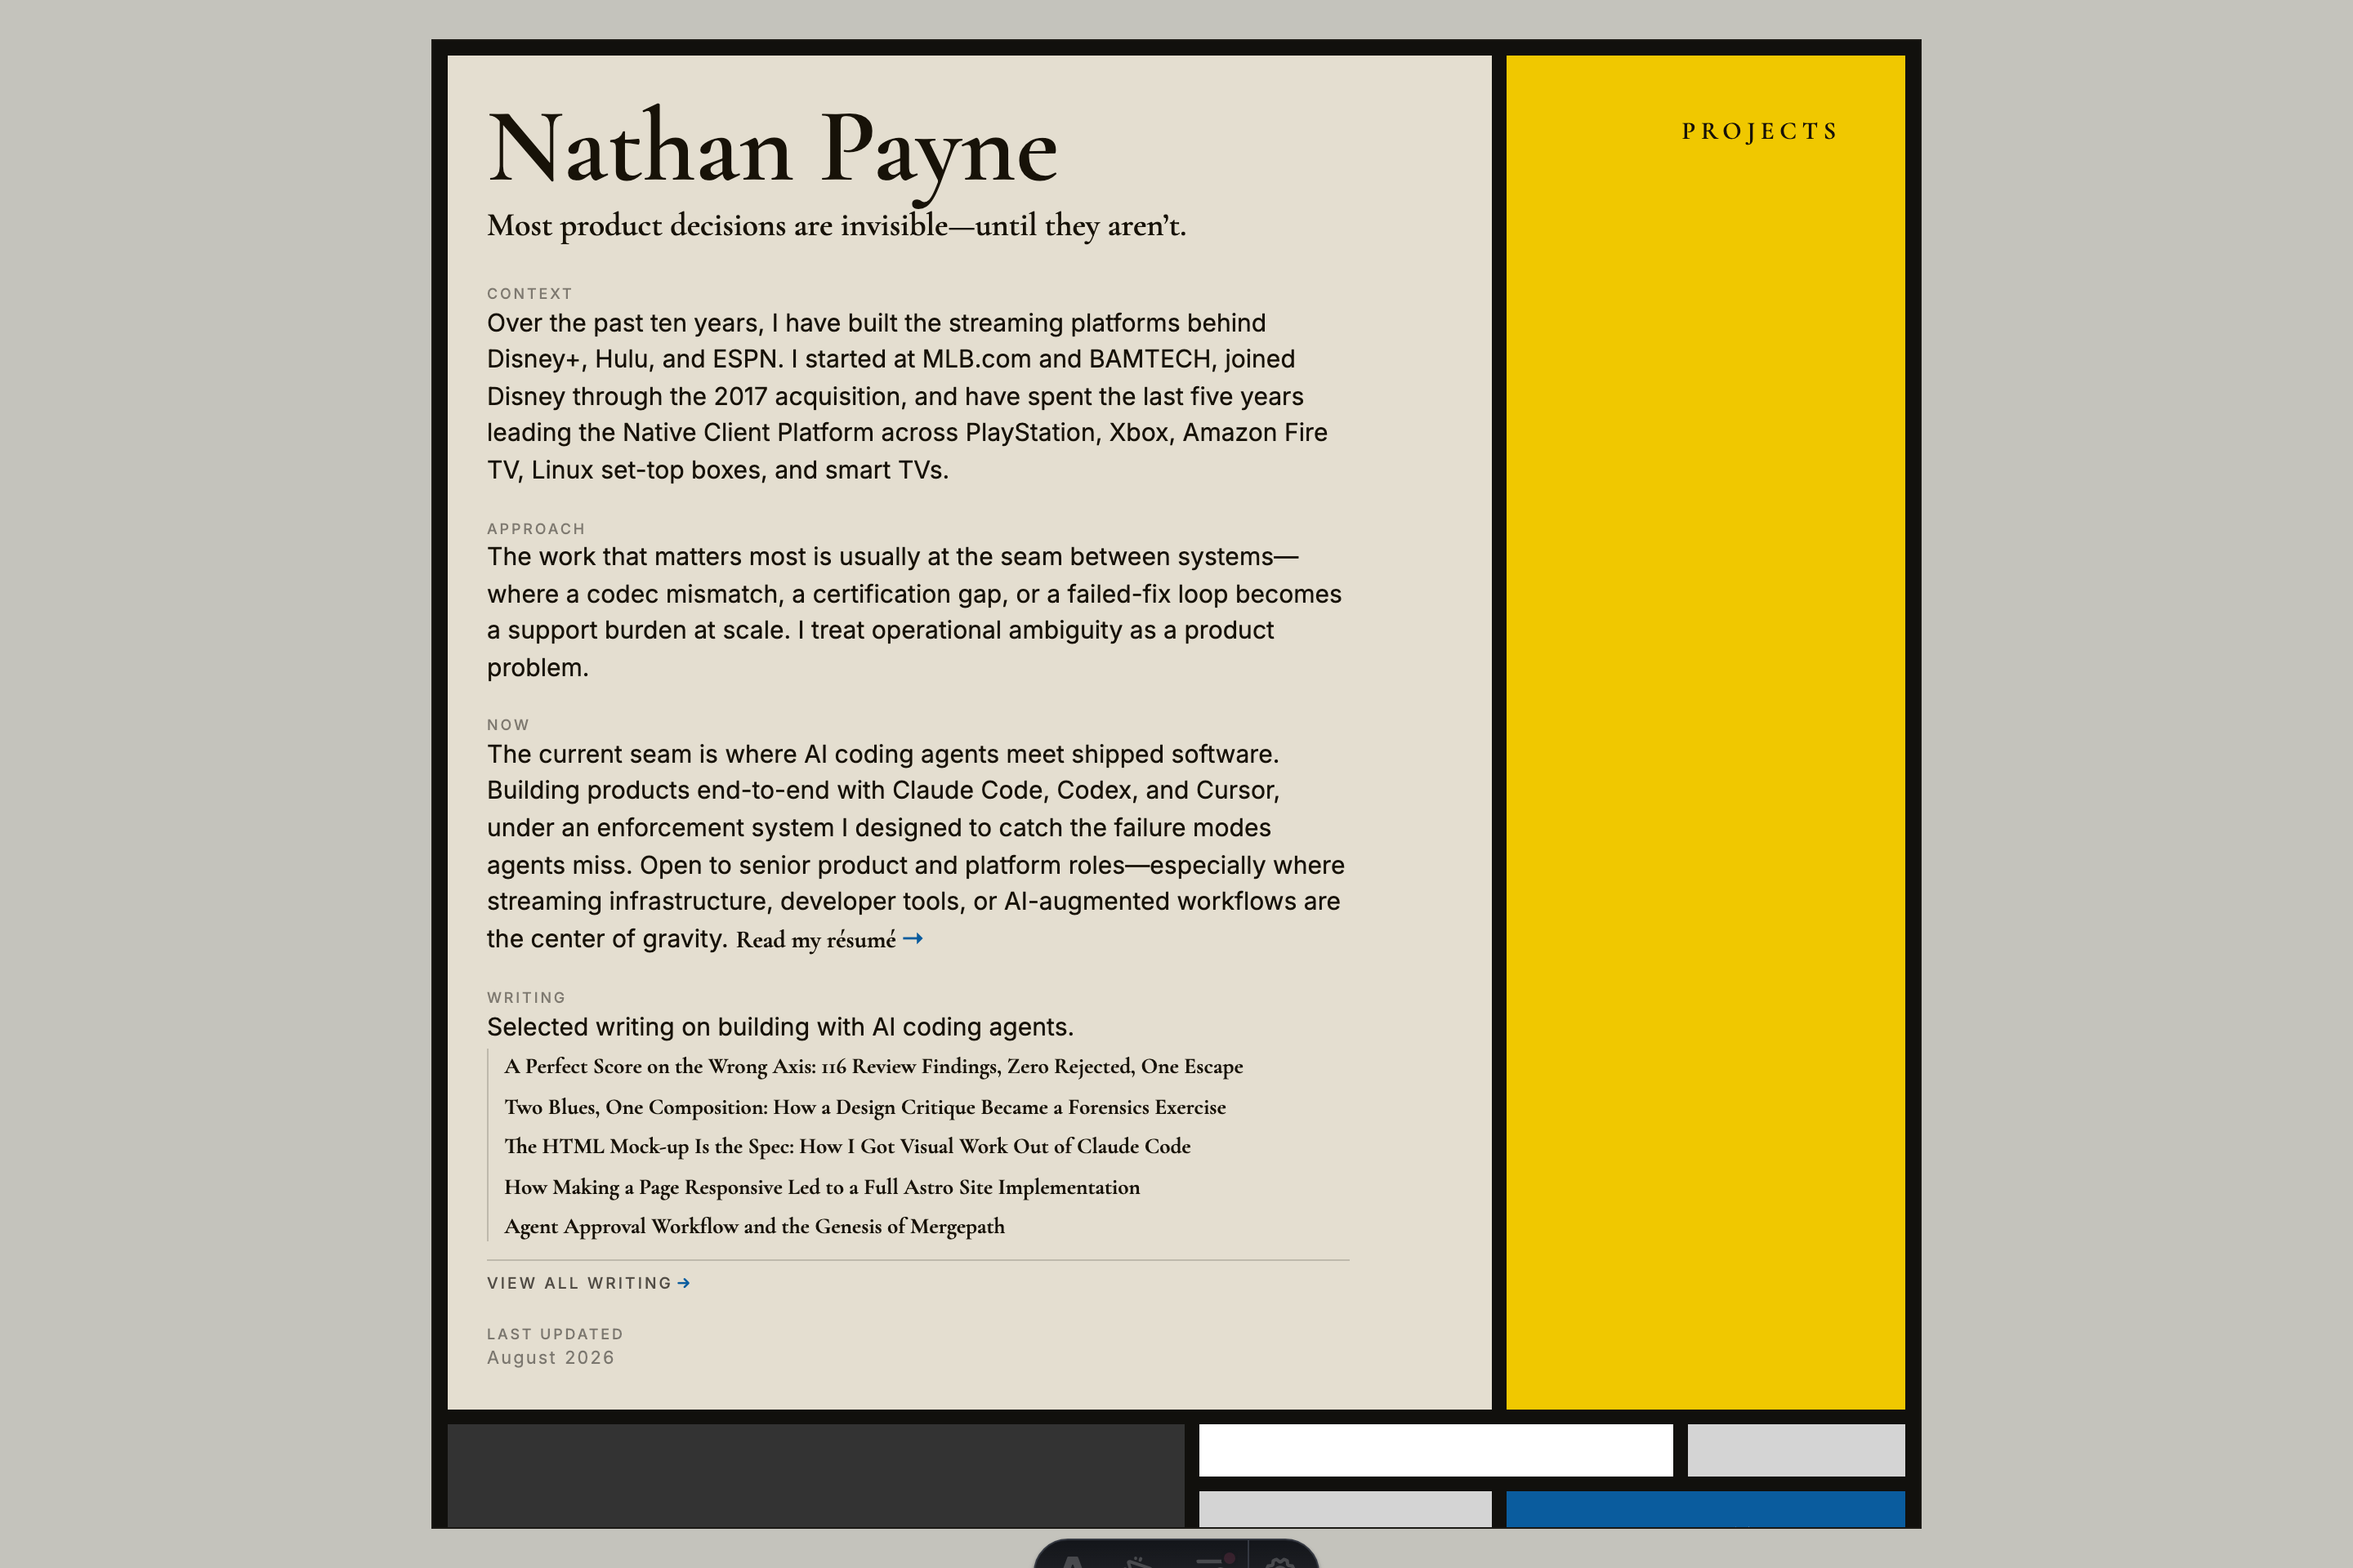
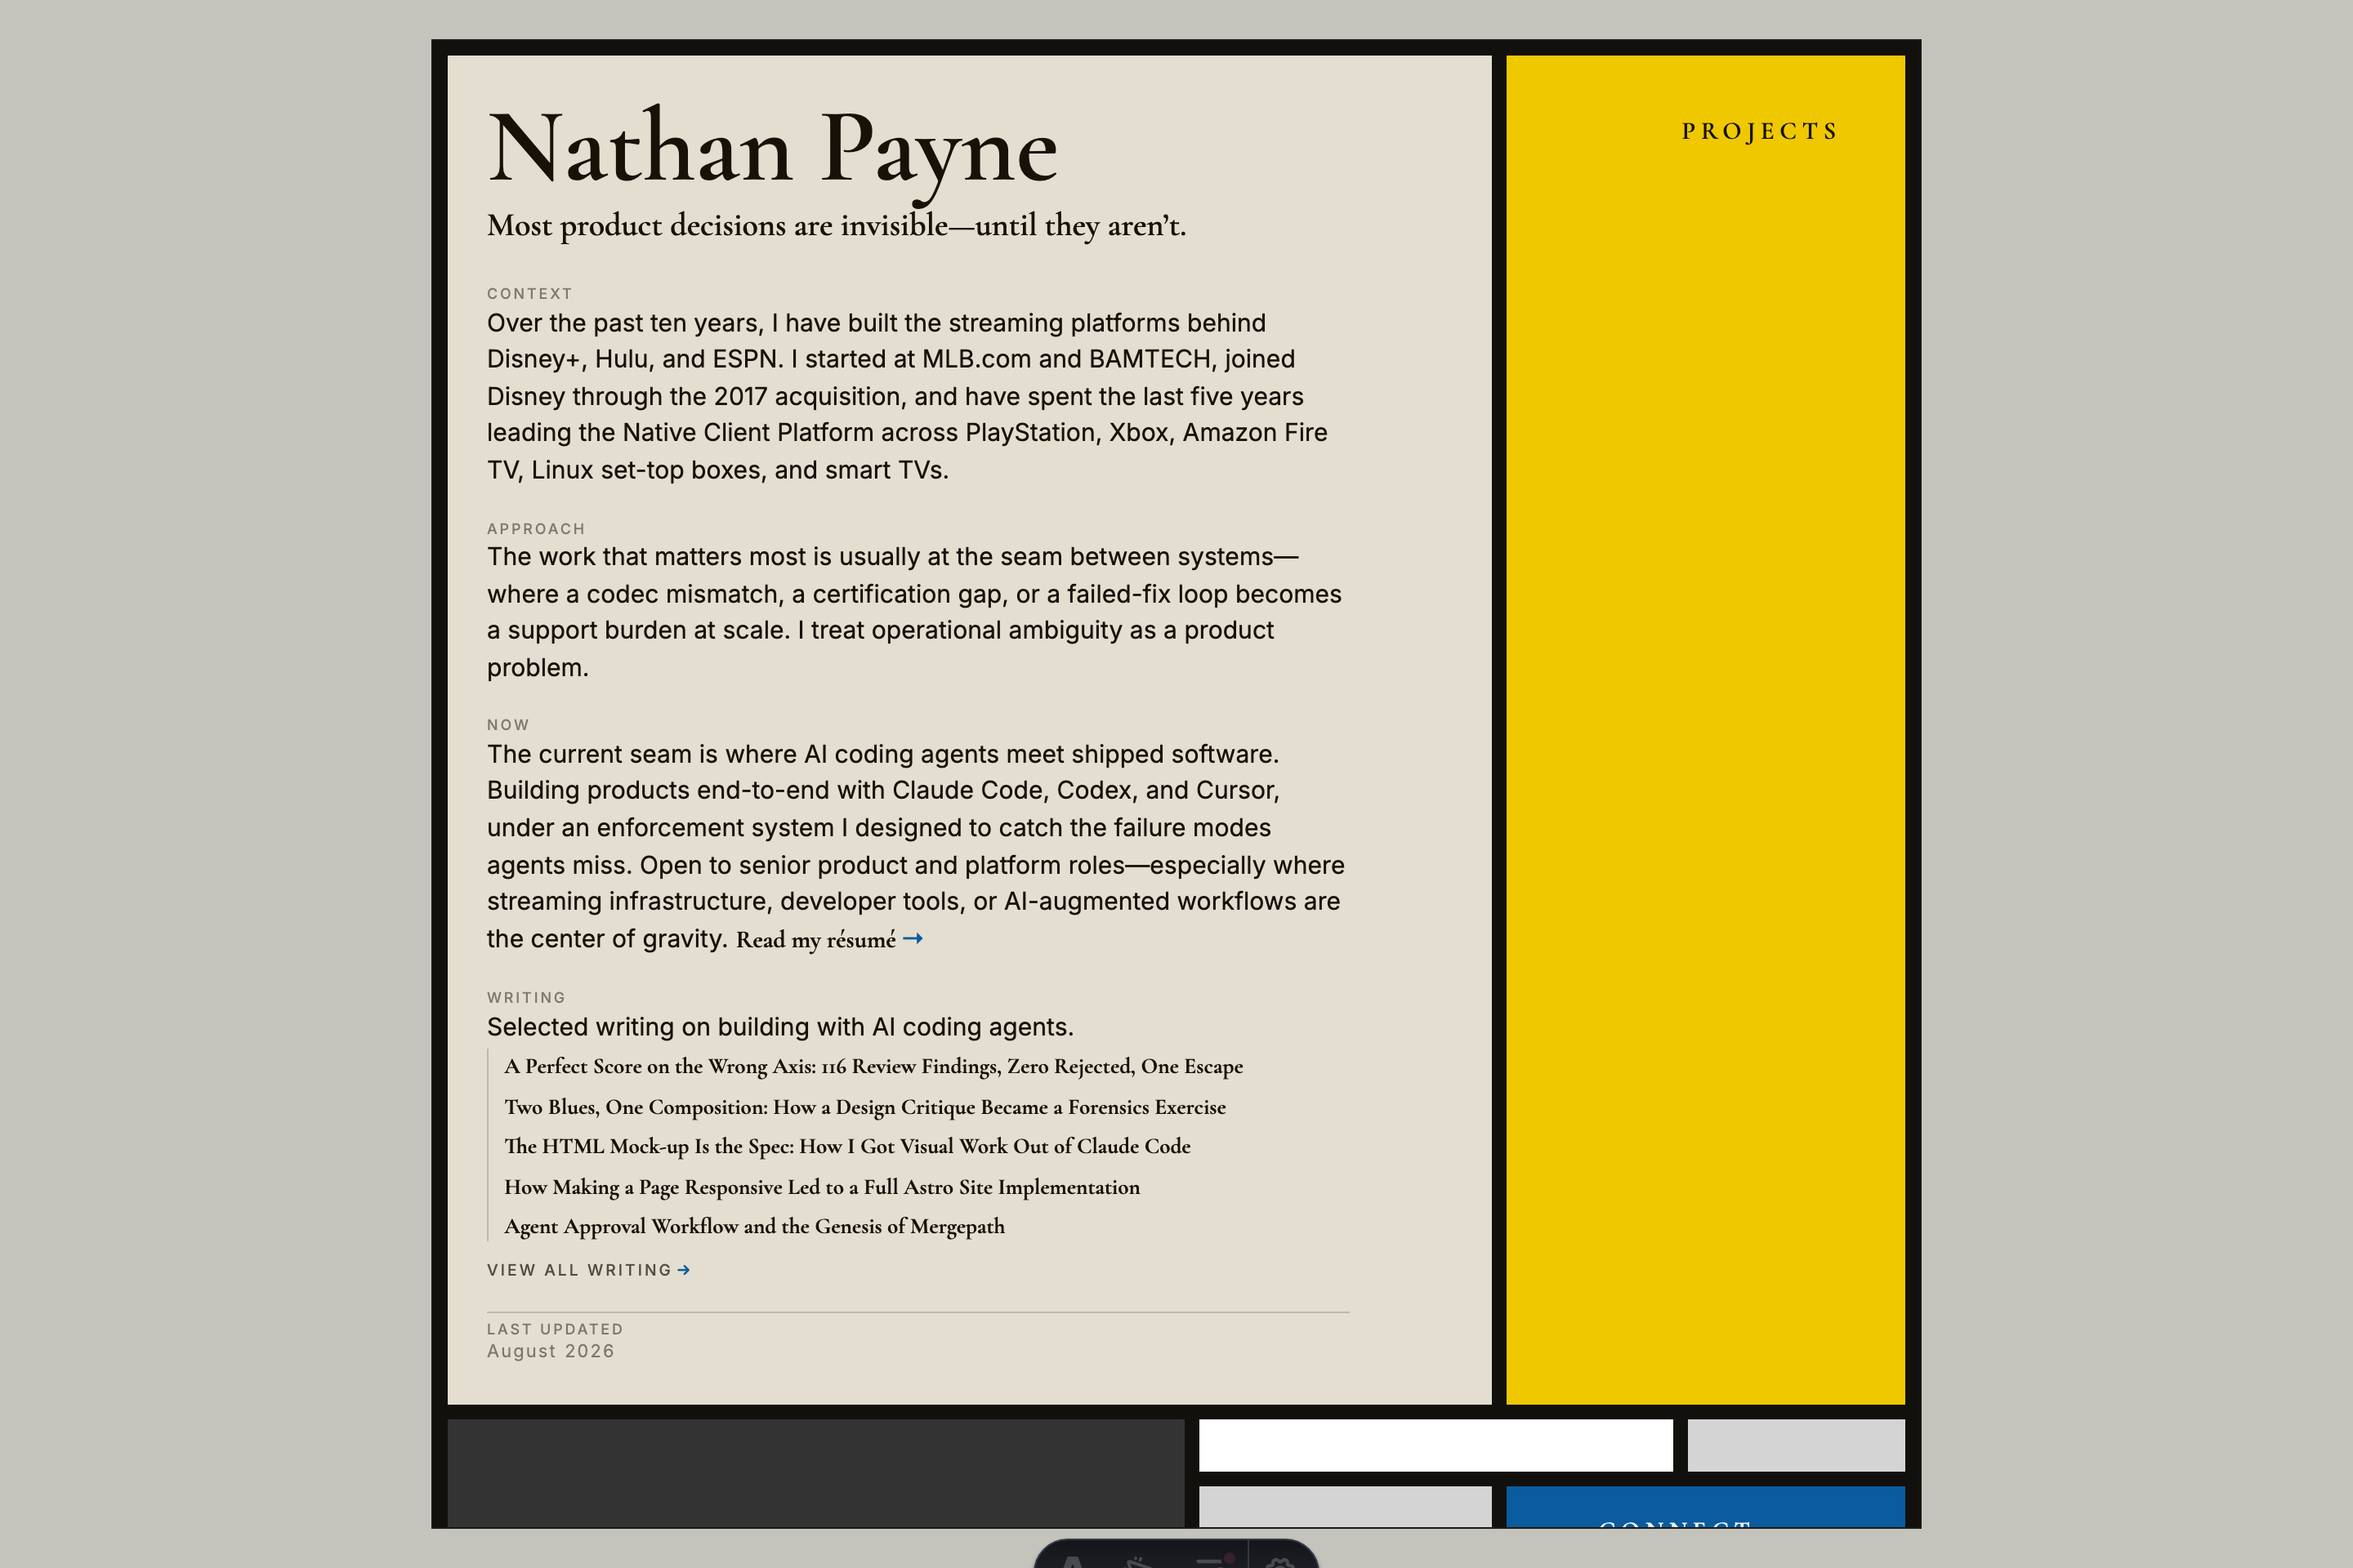
style(home): move the About rule from the exit link to LAST UPDATED
The panel keeps exactly one horizontal rule, but above LAST UPDATED
rather than above VIEW ALL WRITING.

The exit link is already differentiated from the article titles by
voice — eyebrow case, letterspaced, no underline, no shared class — so
it did not need a rule of its own, and the rule reads better closing the
panel content before the timestamp. That also restores the shared ribbon
treatment: Community and Builds both draw a hairline above their own
ribbons, and About was the only panel that did not.

The ribbon is a sibling of .about-block, so the measure cap on the block
does not reach it. Capped explicitly, or the restored rule would have
overshot the prose it closes by ~63px — the same defect this branch
fixed for the other rules.

Measured at 1440x960: one horizontal rule in the panel, spanning
298→826px against prose spanning 298→826px. Content height 826px.

Changed region(s): [[0.1875, 0.7812, 0.8125, 0.9062], [0.5, 0.9375, 0.8125, 0.9688]]

diff --git a/src/styles/global.css b/src/styles/global.css
@@ -649,15 +649,14 @@ html[data-fonts-pending] .panel-label {
    spaces it; drop the shared ribbon margin-top here so the gap above it
    doesn't double (flex gap + margin). Scoped to About only.
 
-   The shared ribbon rule also draws a hairline above the ribbon. In this
-   panel that put two rules 40px apart — one over VIEW ALL WRITING, one over
-   LAST UPDATED — banding a single line into a strip. LAST UPDATED is already
-   demoted by size and colour and does not need a rule to separate it, so
-   About drops its own. Community and Builds keep theirs. */
+   The ribbon keeps the shared hairline — it is the panel's one rule, closing
+   the content before the timestamp, and it matches what Community and Builds
+   draw above their own ribbons. The ribbon is a sibling of .about-block, so
+   the block's measure cap does not reach it; without this the rule would run
+   the full column width and overshoot the prose it closes by ~63px. */
 .about-blocks .now-ribbon {
   margin-top: 0;
-  border-top: none;
-  padding-top: 0;
+  max-width: var(--about-measure);
 }
 
 /* The measure cap lives on the block, not on the paragraph, so every rule
@@ -782,14 +781,15 @@ html[data-fonts-pending] .panel-label {
 }
 
 /* "View all writing →" closes the block (#619). It is a route, not a post, so
-   #659 gave it the eyebrow voice the section labels use and set it below a
-   hairline: separated from the article list, sharing no class with it, and
-   carrying no underline. */
+   #659 gave it the eyebrow voice the section labels use: separated from the
+   article list, sharing no class with it, and carrying no underline.
+
+   It is separated by voice and by gap, not by a rule of its own. The panel
+   holds exactly one horizontal rule and it belongs above LAST UPDATED — two
+   rules 40px apart banded this line into a strip. */
 .writing-list .writing-list__all {
   display: block;
-  margin-top: 0.7rem;
-  padding-top: 0.5rem;
-  border-top: 1px solid var(--rule);
+  margin-top: 0.75rem;
   font-family: var(--font-body);
   font-size: 0.6rem;
   line-height: 1.2;
@@ -4058,16 +4058,11 @@ a:focus-visible {
     border-top-color: color-mix(in srgb, var(--veil-on-red) 28%, transparent);
   }
 
-  /* The WRITING rules use var(--rule) (dark), near-invisible on the red
-     mobile base — flip both the vertical bracket beside the article list and
-     the hairline above the exit link to the same light divider color as the
-     ribbon so every rule in the panel reads as one system. */
+  /* The article list's vertical bracket uses var(--rule) (dark),
+     near-invisible on the red mobile base — flip it to the same light divider
+     color as the ribbon hairline so both rules read as one system. */
   .panel--red .writing-list__posts {
     border-left-color: color-mix(in srgb, var(--veil-on-red) 28%, transparent);
-  }
-
-  .panel--red .writing-list .writing-list__all {
-    border-top-color: color-mix(in srgb, var(--veil-on-red) 28%, transparent);
   }
 
   /* Dark-blue arrow is near-invisible on the red mobile base; keep it

diff --git a/tests/about-panel.test.js b/tests/about-panel.test.js
@@ -92,11 +92,17 @@ describe('About panel section rhythm (#659)', () => {
     expect(CSS).toMatch(/\.about-block \{[^}]*max-width:\s*var\(--about-measure\);/);
   });
 
-  it('leaves LAST UPDATED without a second hairline', () => {
-    // Two rules 40px apart banded the exit link into a strip. The shared
-    // ribbon rule still draws one for Community and Builds.
-    expect(CSS).toMatch(/\.about-blocks \.now-ribbon \{[^}]*border-top:\s*none;/);
+  it('draws one horizontal rule, above LAST UPDATED, capped to the measure', () => {
+    // Two rules 40px apart banded the exit link into a strip. The exit link
+    // is differentiated by voice; the panel's one rule closes the content
+    // before the timestamp, matching Community's and Builds' ribbons.
+    expect(CSS).not.toMatch(/\.writing-list \.writing-list__all \{[^}]*border-top:/);
     expect(CSS).toMatch(/\.stack-ribbon,\n\.impact-ribbon,\n\.now-ribbon \{/);
+    // The ribbon is a sibling of .about-block, so the block's cap does not
+    // reach it — without this the rule overshoots the prose it closes.
+    expect(CSS).toMatch(
+      /\.about-blocks \.now-ribbon \{[^}]*max-width:\s*var\(--about-measure\);/,
+    );
   });
 
   it('rests the panel links without an underline and takes it on hover', () => {
